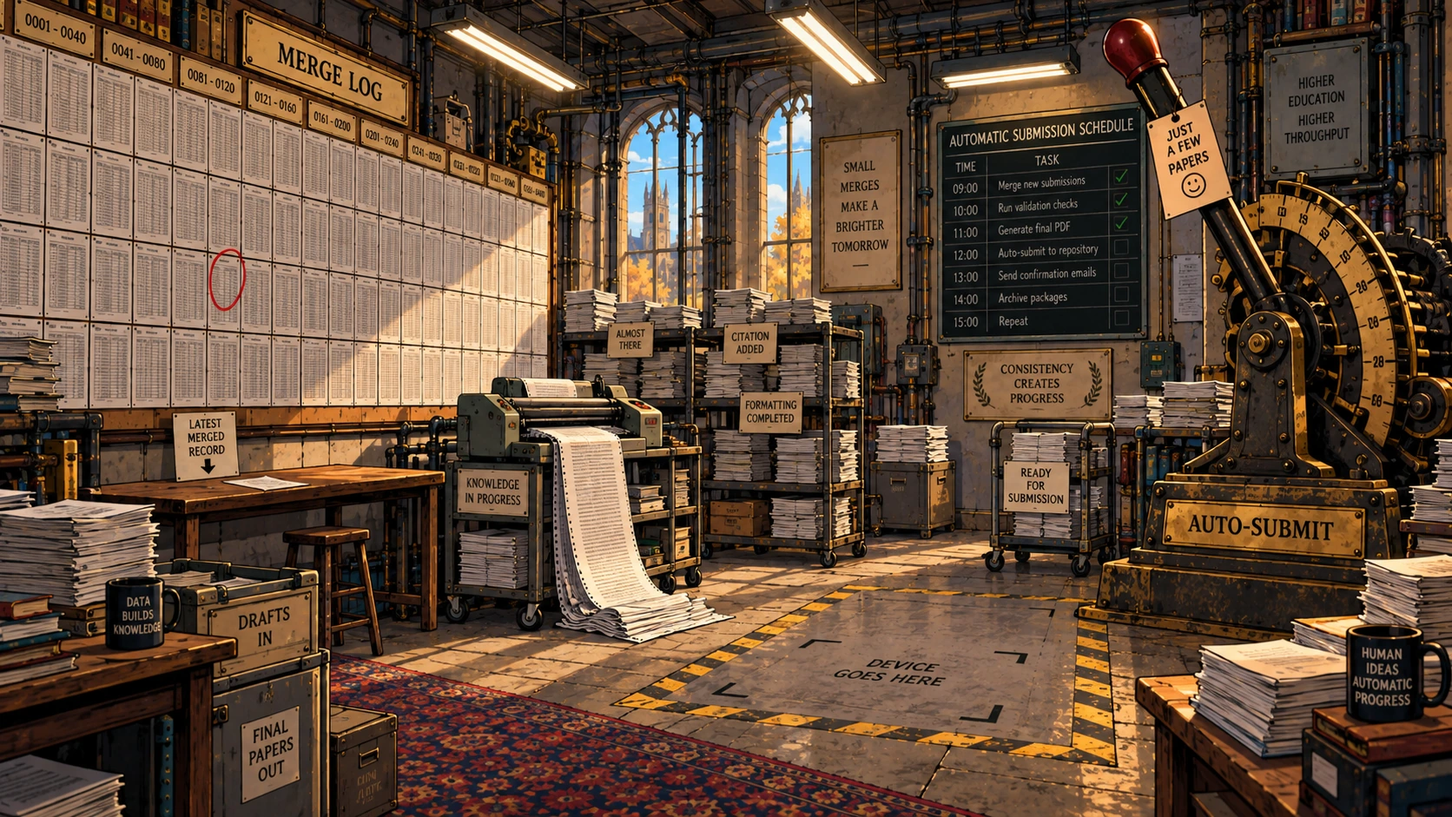
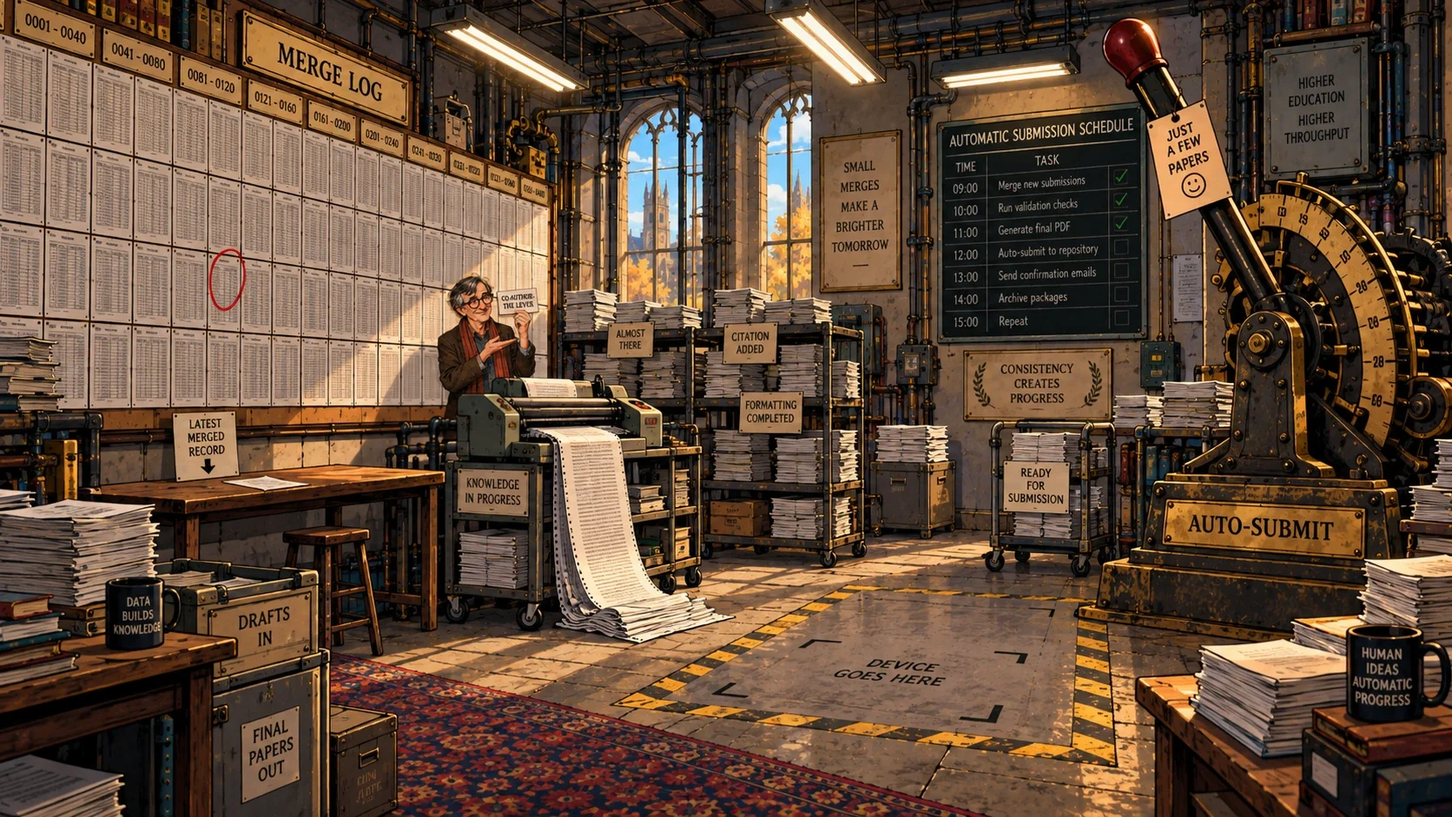
Sociologist cameos painted into the room backgrounds (Coleman, Goffman, Merton, Becker, Glaser & Strauss, Bourdieu, Durkheim, Weber's cage, Latour, Granovetter), spread over the five acts
Claude-Session: https://claude.ai/code/session_01NVbNvGwATBDeX3jSoy7jXs

Changed region(s): [[0.2488, 0.339, 0.3732, 0.5547]]

diff --git a/web/the-secret-of-the-codebook.html b/web/the-secret-of-the-codebook.html
@@ -1889,6 +1889,11 @@
   // Rooms publish their own geometry so tests can check placements against what the room
   // declares, rather than against numbers copied into the test.
   window.CODEBOOK_ROOM_OPTS = {};
+  // SOCIOLOGIST CAMEOS (author, 2026-09-26: "I like all cameos. Spread them out over the acts").
+  // One small figure per room, keyed by the room's prefix: a painted cut-out, a hotspot that
+  // answers Look and Talk, and nothing a puzzle depends on. Filled in by the CAMEOS block below.
+  window.CODEBOOK_CAMEOS = window.CODEBOOK_CAMEOS || {};
+  function cameoOf(p){ return (window.CODEBOOK_CAMEOS || {})[p]; }
   window.CODEBOOK_ADV_HTML = function(o){
     if (o && o.p) window.CODEBOOK_ROOM_OPTS[o.p] = o;
     var p = o.p;
@@ -1951,6 +1956,11 @@
       // parked beside it. Pointer-transparent, so the hotspots underneath still work.
       (o.fg ? '<img class="scene-fg" src="' + o.fg + '" alt="" aria-hidden="true">' : '') +
       (o.overlay || '') + spots +
+      (cameoOf(p) ? (function(c){
+        // painted into the room's background (9a); only the hotspot is added here
+        return (c.src ? '<img id="' + p + '_cameo" class="cb-cameo" src="' + c.src + '" alt="" style="position:absolute;pointer-events:none;left:' + c.l + '%;top:' + c.t + '%;width:' + c.w + '%;' + (c.css || '') + '">' : '') +
+          '<button class="hotspot" data-id="cameo" data-verbs="lookat talkto" data-primary="lookat" data-label="' + c.label + '" style="left:' + (c.hl != null ? c.hl : c.l) + '%;top:' + (c.ht != null ? c.ht : c.t) + '%;width:' + (c.hw || c.w) + '%;height:' + c.hh + '%;z-index:4;"></button>';
+      })(cameoOf(p)) : '') +
       '<div class="hint" id="' + p + '_hint"></div></div>' +
       '<div class="panel"><div class="speaker" id="' + p + '_speaker"></div><div class="line" id="' + p + '_line"></div><div class="choices" id="' + p + '_choices"></div></div>' +
       '</div><div class="side-panel">' +
@@ -2117,6 +2127,7 @@
       verbGrid.appendChild(b);
     });
 
+    if (cameoOf(p)) nouns.cameo = cameoOf(p).noun;
     wrap.querySelectorAll('.hotspot').forEach(function(hs){
       hs.addEventListener('mouseenter', function(){ hovered = nouns[hs.dataset.id]; updateSentence(); hintEl.textContent = hs.dataset.label; hintEl.classList.add('show'); });
       hs.addEventListener('mouseleave', function(){ hovered = null; updateSentence(); hintEl.classList.remove('show'); });
@@ -2124,6 +2135,13 @@
         // Tobi belongs to the scaffolding, not to any room, so he is answered here first
         // unless the room has chosen to handle him itself.
         if (hs.dataset.id === 'tobi' && api.tobi(verb)){ api.h27(); return; }
+        if (hs.dataset.id === 'cameo' && cameoOf(p)){
+          var c = cameoOf(p);
+          if (verb === 'talkto'){ c._n = (c._n || 0); api.say(c.who, c.talk[c._n++ % c.talk.length]); }
+          else if (verb === 'lookat' || !verb) api.say('You', c.look);
+          else api.fallback();
+          return;
+        }
         var handled = o.onClick(hs.dataset.id, verb, verb === 'use' ? item : null, api);
         if (handled === false) api.fallback();
         api.h27();
@@ -2597,7 +2615,7 @@
   }
   // The actions each thing really needs, set room by room (ROADMAP 8zx; author: "only show the icons that
   // are really needed"). This table wins over the guess read off the room's code; Tobi is always Talk.
-  var ROOM_VERBS = {"whirlpool":{"prof":"talkto","penjar":"pickup","hourglass":"pickup","usb":"pickup","stamp":"pickup","glassdesk":"pickup","bingocard":"pickup","mug":"lookat","likertdie":"lookat","autograph":"lookat","shelfL":"lookat","shelfR":"lookat","frameL":"lookat","frameR":"lookat","windowL":"lookat","windowR":"lookat","skeleton":"lookat","cork":"lookat","counter":"lookat"},"lecture":{"note":"lookat","phone":"lookat","doodle":"lookat","board":"use","ink":"pickup","prof":"talkto"},"corridor":{"note":"lookat","glass":"lookat","skeleton":"lookat","wanted":"lookat","corkboard":"lookat","chalkboard":"lookat","duck":"pickup","gatedoor":"use","bell":"use"},"pond":{"philosopher":"talkto","coleman":"lookat talkto","water":"lookat","plaque":"lookat","swanleft":"lookat","swanright":"lookat"},"library":{"kira":"talkto","conveyor":"lookat use","trolley":"lookat use","catalogue":"use","framed":"lookat","stacks":"lookat pickup","register":"pickup","desk":"pickup use","sign":"lookat"},"hall":{"profg":"talkto","dj":"talkto","djtable":"lookat","ladder":"pickup","dispenser":"use","meter":"use","portraits":"lookat talkto","weber":"lookat talkto","sign":"lookat","clipping":"lookat"},"workshop":{"feldstrom":"talkto","machine":"use","tape":"use","forbids":"lookat","desk":"lookat","extcard":"lookat","thesis":"lookat","diagrams":"lookat"},"seminar":{"board":"use","fellow":"talkto","chairs":"lookat","sign":"lookat"},"surveylab":{"nurse":"talkto","gurney1":"lookat","gurney2":"lookat","gurney3":"lookat","clipboard":"lookat","cabinet":"pickup","die":"pickup","board":"lookat","phone":"lookat","sign":"lookat","window":"lookat","poster":"lookat"},"ethics":{"keeper":"talkto","chair":"talkto","rep":"talkto","tribunal":"talkto","device":"lookat","table":"pickup","calendar":"pickup","pewright":"pickup","pewleft":"lookat","plaque":"lookat","glass":"lookat"},"mensa":{"herald":"talkto","drum":"use","officer":"use","frame":"use","counters":"talkto","tables":"lookat"},"fieldwork":{"director":"talkto","host":"use","phone":"pickup","podiums":"lookat","board":"lookat","doorbusy":"lookat","doorforgot":"lookat","doorspam":"lookat","doornot":"lookat"},"statsbasement":{"switches":"use","seal":"use","skeptic":"talkto","queue":"talkto","banner":"lookat","board":"lookat","monkeydoor":"use"},"delegation":{"kira":"talkto","record":"use","queue":"talkto","lever":"use","log":"lookat","prof":"talkto"},"bureau":{"clerk":"talkto","counter":"use","conveyor":"lookat","plaques":"lookat","gauge":"lookat"},"psychlab":{"achterberg":"talkto","typist":"talkto","desk":"lookat","typewriters":"lookat","hamlet":"lookat","pinboard":"lookat","cages":"lookat","labdoor":"lookat"},"postersession":{"poster":"use","best":"lookat","posters":"lookat","bins":"lookat","banner":"lookat"},"keynote":{"screen":"lookat","vossberg":"talkto","portraits":"lookat","chat":"lookat"},"writingroom":{"feldstrom":"talkto","registrar":"talkto","kira":"talkto","table":"use","abstract":"use","impact":"lookat","phone":"lookat"}};
+  var ROOM_VERBS = {"whirlpool":{"prof":"talkto","penjar":"pickup","hourglass":"pickup","usb":"pickup","stamp":"pickup","glassdesk":"pickup","bingocard":"pickup","mug":"lookat","likertdie":"lookat","autograph":"lookat","shelfL":"lookat","shelfR":"lookat","frameL":"lookat","frameR":"lookat","windowL":"lookat","windowR":"lookat","skeleton":"lookat","cork":"lookat","counter":"lookat"},"lecture":{"goffman":"lookat talkto","note":"lookat","phone":"lookat","doodle":"lookat","board":"use","ink":"pickup","prof":"talkto"},"corridor":{"note":"lookat","glass":"lookat","skeleton":"lookat","wanted":"lookat","corkboard":"lookat","chalkboard":"lookat","duck":"pickup","gatedoor":"use","bell":"use"},"pond":{"philosopher":"talkto","coleman":"lookat talkto","water":"lookat","plaque":"lookat","swanleft":"lookat","swanright":"lookat"},"library":{"kira":"talkto","conveyor":"lookat use","trolley":"lookat use","catalogue":"use","framed":"lookat","stacks":"lookat pickup","register":"pickup","desk":"pickup use","sign":"lookat"},"hall":{"profg":"talkto","dj":"talkto","djtable":"lookat","ladder":"pickup","dispenser":"use","meter":"use","portraits":"lookat talkto","weber":"lookat talkto","sign":"lookat","clipping":"lookat"},"workshop":{"feldstrom":"talkto","machine":"use","tape":"use","forbids":"lookat","desk":"lookat","extcard":"lookat","thesis":"lookat","diagrams":"lookat"},"seminar":{"board":"use","fellow":"talkto","chairs":"lookat","sign":"lookat"},"surveylab":{"nurse":"talkto","gurney1":"lookat","gurney2":"lookat","gurney3":"lookat","clipboard":"lookat","cabinet":"pickup","die":"pickup","board":"lookat","phone":"lookat","sign":"lookat","window":"lookat","poster":"lookat"},"ethics":{"keeper":"talkto","chair":"talkto","rep":"talkto","tribunal":"talkto","device":"lookat","table":"pickup","calendar":"pickup","pewright":"pickup","pewleft":"lookat","plaque":"lookat","glass":"lookat"},"mensa":{"herald":"talkto","drum":"use","officer":"use","frame":"use","counters":"talkto","tables":"lookat"},"fieldwork":{"director":"talkto","host":"use","phone":"pickup","podiums":"lookat","board":"lookat","doorbusy":"lookat","doorforgot":"lookat","doorspam":"lookat","doornot":"lookat"},"statsbasement":{"switches":"use","seal":"use","skeptic":"talkto","queue":"talkto","banner":"lookat","board":"lookat","monkeydoor":"use"},"delegation":{"kira":"talkto","record":"use","queue":"talkto","lever":"use","log":"lookat","prof":"talkto"},"bureau":{"clerk":"talkto","counter":"use","conveyor":"lookat","plaques":"lookat","gauge":"lookat"},"psychlab":{"achterberg":"talkto","typist":"talkto","desk":"lookat","typewriters":"lookat","hamlet":"lookat","pinboard":"lookat","cages":"lookat","labdoor":"lookat"},"postersession":{"poster":"use","best":"lookat","posters":"lookat","bins":"lookat","banner":"lookat"},"keynote":{"screen":"lookat","vossberg":"talkto","portraits":"lookat","chat":"lookat"},"writingroom":{"feldstrom":"talkto","registrar":"talkto","kira":"talkto","table":"use","abstract":"use","impact":"lookat","phone":"lookat"}};
   function verbsOf(t){
     var id = t.dataset.id || t.dataset.extra || t.dataset.zone || '';
     if (id === 'tobi') return ['talkto'];
@@ -5101,6 +5119,7 @@ CODEBOOK_REGISTER({
          He is lit and visible like anyone else. The course is timetabled under HER name;
          he is the cover, reading it out off a printout he did not write, which is the Act I
          plant for the post-credits reveal. -->
+    <!-- Erving Goffman, backstage at the side door: painted into lecture-bg and lecture-bg-bingo (9a) -->
     <div id="lt_lectTravel" style="position:absolute;left:0;top:0;width:100%;height:100%;pointer-events:none;">
       <img id="lt_lectLecturing" data-voice="lecturer" src="vossberg2-explain.webp" alt="" style="position:absolute;left:63%;bottom:24%;height:53%;width:auto;transform:translateX(-50%);transition:opacity .5s ease;">
       <img id="lt_lectWalking" data-voice="lecturer" src="vossberg2-walk.webp" alt="" style="position:absolute;left:63%;bottom:24%;height:53%;width:auto;transform:translateX(-50%);opacity:0;transition:opacity .5s ease;">
@@ -5770,6 +5789,12 @@ CODEBOOK_REGISTER({
     { id:'phone', kind:'lookat', noun:'your phone', hotspot:{l:74.16,t:89.37,w:11.96,h:10.63},
       lookat:'A phone, screen dimmed, held just below the sightline of a man who has spent thirty years perfecting the sightline of a lecture hall.' },
     { id:'doodle', kind:'doodle', noun:'your notebook', hotspot:{l:20.33,t:77.68,w:51.44,h:22.32} },
+    { id:'goffman', kind:'cameo', noun:'the man by the side door', hotspot:{l:38.5,t:42,w:4.5,h:16},
+      who:'Erving Goffman',
+      lookat:'Half-hidden behind a curtain at the side door, a small man in a dark suit is checking his tie in a hand mirror. Erving Goffman, backstage, before going on.',
+      talk:['&ldquo;Not now. This is backstage. Out there I am a sociologist; in here I am a man with a crooked tie.&rdquo;',
+            '&ldquo;He is not giving a lecture, you know.&rdquo; <i>(a nod towards Vossberg)</i> &ldquo;He is giving a performance of a lecture. Very convincing front.&rdquo;',
+            '&ldquo;Everybody has a back region. The trick is to notice when you have walked into someone else&rsquo;s.&rdquo;'] },
     { id:'board', kind:'board', noun:'the blackboard', hotspot:{l:47.55,t:11.69,w:37.98,h:35.07} },
     { id:'ink', kind:'pickup', itemId:'blackink', flag:'lectureInkTaken', noun:'a bottle of ink',
       hotspot:{l:59.8,t:40,w:4.4,h:7},
@@ -5797,6 +5822,12 @@ CODEBOOK_REGISTER({
   }
 
   function handleZoneClick(x){
+    if (x.kind === 'cameo'){
+      if (selectedVerb === 'talkto'){ x._n = x._n || 0; setLine(x.who, x.talk[x._n++ % x.talk.length]); }
+      else if (selectedVerb === 'lookat'){ setLine('You', x.lookat); }
+      else { setLine('You', FALLBACK[selectedVerb] || "That doesn't seem to work."); }
+      return;
+    }
     if (x.kind === 'lookat'){
       if (selectedVerb === 'lookat'){ setLine('You', x.lookat); }
       else { setLine('You', FALLBACK[selectedVerb] || "That doesn't seem to work."); }
@@ -6672,10 +6703,8 @@ CODEBOOK_REGISTER({
   <div class="scene-wrap" id="pd_sceneWrap">
     <img id="pd_bg" src="pond-bg.webp" alt="" style="width:100%;height:100%;object-fit:cover;display:block;">
     <button class="hotspot" data-id="swanright" data-label="A white swan" style="left:74%;top:45%;width:12%;height:17%;"></button>
-    <!-- James Coleman, rowing Coleman's boat: MACRO down to micro, across, back up (author, 2026-09-26) -->
-    <img id="pd_coleman" src="pond-coleman.webp" alt="" style="position:absolute;left:40.5%;top:36.5%;width:12%;pointer-events:none;animation:pdBoat 5.5s ease-in-out infinite;filter:drop-shadow(0 3px 4px rgba(0,0,0,.35));">
-    <style>@keyframes pdBoat{0%,100%{transform:translate(0,0) rotate(-.6deg)}50%{transform:translate(1.5%,1.2%) rotate(.8deg)}}</style>
-    <button class="hotspot" data-id="coleman" data-label="A man rowing a boat" style="left:40.5%;top:36.5%;width:12%;height:10%;z-index:3;"></button>
+    <!-- James Coleman rowing Coleman's boat, painted into both pond backgrounds (9a) -->
+    <button class="hotspot" data-id="coleman" data-label="A man rowing a boat" style="left:26%;top:34%;width:8%;height:8%;z-index:3;"></button>
     <button class="hotspot" data-id="swanleft" data-label="Another white swan" style="left:29%;top:44%;width:10%;height:12%;"></button>
     <button class="hotspot" data-id="plaque" data-label="A wooden plaque" style="left:5%;top:54%;width:20%;height:9%;"></button>
     <button class="hotspot" data-id="water" data-label="The open water, towards the bridge" style="left:42%;top:38%;width:30%;height:17%;"></button>
@@ -7299,6 +7328,68 @@ CODEBOOK_REGISTER({
       });
     }, { label: 'Outro' });
   };
+})();
+</script>
+<script>
+/* ============================== SOCIOLOGIST CAMEOS ============================== */
+// Author, 2026-09-26: "I like all cameos. Spread them out over the acts." Coleman rows on the
+// Pond and Goffman waits backstage in the Lecture Theatre (both Act I, in those rooms' own
+// code); the rest go through CODEBOOK_CAMEOS, which every adventure room reads by prefix.
+// l/t/w place the cut-out (percent of the scene), hh is the hotspot height.
+(function(){
+var C = window.CODEBOOK_CAMEOS = window.CODEBOOK_CAMEOS || {};
+// Act II
+C.lb = { l:13.5, t:48, w:6.5, hh:19, who:'Robert K. Merton', noun:'the man with the citations',
+  label:'A man with an armful of citations',
+  look:'A tall, white-haired man in a bow tie, arms overflowing with citation slips. More drift over to him from the trolley as you watch, several of them clearly somebody else&rsquo;s. Robert K. Merton, and the Matthew effect in person.',
+  talk:['&ldquo;For unto every one that hath shall be given.&rdquo; <i>(a slip lands on the pile)</i> &ldquo;Matthew, chapter twenty-five. I only named it.&rdquo;',
+        '&ldquo;Oh, that one isn&rsquo;t mine. Neither is that one.&rdquo; <i>(he keeps them both)</i> &ldquo;People cite the name they have already heard of.&rdquo;',
+        '&ldquo;Unintended consequences. You cite a famous paper to be safe, and the famous paper gets more famous. Nobody meant it.&rdquo;'] };
+C.sm = { l:83, t:27, w:10, hh:14, who:'Howard Becker', noun:'the jazz trio',
+  label:'A jazz trio outside the window',
+  look:'Through the window, on the lawn outside, a jazz trio is playing to nobody in particular. The trumpeter is Howard Becker. They have been invited in twice. They are not coming in.',
+  talk:['&ldquo;We&rsquo;re outsiders, man. That&rsquo;s not a thing we are. That&rsquo;s a thing they called us.&rdquo;',
+        '&ldquo;Deviance isn&rsquo;t in the act. It&rsquo;s in who gets to hang the label on it.&rdquo; <i>(a long, cool note)</i>',
+        '&ldquo;Come to the gig. It&rsquo;s the only room on campus without a seating chart.&rdquo;'] };
+// Act III
+C.fw = { l:79.5, t:39, w:13, hh:22, who:'Glaser &amp; Strauss', noun:'the two men digging',
+  label:'Two men digging a hole',
+  look:'In the corner behind the cameras, two men in hard hats are digging a hole. A sign on a stake: <b>GROUNDED THEORY &mdash; STILL LOOKING</b>. Barney Glaser and Anselm Strauss, on site.',
+  talk:['Glaser, leaning on the shovel: &ldquo;No hypotheses. We just dig, and the theory emerges from the ground.&rdquo; Strauss, at the clipboard: &ldquo;Any minute now.&rdquo;',
+        '&ldquo;Constant comparison.&rdquo; <i>(they compare the hole with another hole)</i> &ldquo;Saturation is when the new dirt looks like the old dirt.&rdquo;',
+        '&ldquo;You people come in with a Prediction Slip.&rdquo; <i>(a disapproving shovelful)</i> &ldquo;We never know what we are looking for. That&rsquo;s the method.&rdquo;'] };
+C.mn = { l:83.5, t:50, w:6, hh:14, who:'Pierre Bourdieu', noun:'the man judging lunches',
+  label:'A man inspecting other people&rsquo;s lunches',
+  look:'At the end of a long table, a grey-haired man in a dark suit is inspecting other people&rsquo;s trays over his glasses. Pierre Bourdieu, eating his distinction.',
+  talk:['&ldquo;Taste classifies. And it classifies the classifier.&rdquo; <i>(he looks at your tray)</i> &ldquo;Schnitzel. Of course.&rdquo;',
+        '&ldquo;The Mensa is not a canteen. It is a field. Look who sits where.&rdquo;',
+        '&ldquo;Your capital is showing. Cultural, mostly. A little economic. Very little social, sitting alone like that.&rdquo;'] };
+C.et = { l:21.5, t:43, w:8.5, hh:33, who:'&Eacute;mile Durkheim', noun:'the bearded man with the charts',
+  label:'A bearded man studying a chart',
+  look:'By the tribunal steps, a bearded man in a black frock coat is studying a hand-drawn chart of rates by region. &Eacute;mile Durkheim, with his data from 1897. Nobody consented to anything back then. The Tribunal is pretending not to see him.',
+  talk:['&ldquo;Individuals are unpredictable. Rates are not.&rdquo; <i>(he taps the chart)</i> &ldquo;That is where sociology lives.&rdquo;',
+        '&ldquo;I never interviewed one of them. Only the registers. Your Tribunal would have had a great deal to say.&rdquo;',
+        '&ldquo;A social fact, young person, is one that would still be there if everybody in this room left.&rdquo;'] };
+// Act IV
+C.bu = { l:70.5, t:3, w:6.5, hh:21, who:'The Iron Cage', noun:'the iron cage',
+  label:'An iron birdcage',
+  look:'Hanging from the ceiling, an iron birdcage with a brass tag: <b>MAX WEBER</b>. Inside, a very small bureaucrat stamps very small forms, efficiently, forever.',
+  talk:['The tiny bureaucrat does not look up. &ldquo;Please take a number.&rdquo; <i>(stamp)</i> &ldquo;Rational. Calculable. Impersonal.&rdquo;',
+        '&ldquo;It started as a light cloak on the shoulders.&rdquo; <i>(stamp)</i> &ldquo;Nobody remembers when it became a cage.&rdquo;',
+        '&ldquo;Specialists without spirit.&rdquo; <i>(stamp)</i> &ldquo;Sensualists without heart.&rdquo; <i>(stamp)</i> &ldquo;Next.&rdquo;'] };
+C.dl = { l:30, t:32, w:7.5, hh:17, who:'Bruno Latour', noun:'the man with the card',
+  label:'A man holding up a card',
+  look:'A lean man in a scarf is holding up a hand-written card: <b>CO-AUTHOR: THE LEVER</b>. Bruno Latour, at KIRA&rsquo;s terminal.',
+  talk:['&ldquo;Why should only the humans get authorship? The lever did the submitting. KIRA did the writing. You only watched.&rdquo;',
+        '&ldquo;Follow the actors. All of them.&rdquo; <i>(he pats the AUTO-SUBMIT plate)</i> &ldquo;This one has more agency than half the department.&rdquo;',
+        '&ldquo;We have never been modern.&rdquo; <i>(he looks at the queue)</i> &ldquo;We have only been busy.&rdquo;'] };
+// Act V
+C.ps = { l:50, t:45, w:6.5, hh:14, who:'Mark Granovetter', noun:'the man with the lanyards',
+  label:'A man pegging lanyards on a line',
+  look:'By a poster board, a man with a moustache is pegging conference lanyards onto a washing line. Mark Granovetter. Nobody on the line knows anybody else on it very well, which is apparently the point.',
+  talk:['&ldquo;Your close friends know what you know. It&rsquo;s the people you barely know who tell you about the job.&rdquo;',
+        '&ldquo;The strength of weak ties.&rdquo; <i>(he pegs up another lanyard)</i> &ldquo;Everyone here has met everyone else once, at the coffee.&rdquo;',
+        '&ldquo;Take one. Wear it. In ten years somebody on this line will hire you, and neither of you will remember why.&rdquo;'] };
 })();
 </script>
 <script>
@@ -11235,7 +11326,7 @@ var SPRITES = [
   // is where they are standing. He is cut off at the waist by the counter top (bg-y 511).
   { id:'cook',   src:'sprite-cook.webp',   l:96.3, t:46.6, w:3.6,  h:7.6 },
   { id:'diners', src:'sprite-diners.webp', l:3.6,  t:53.9, w:10.8, h:11.0 },
-  { id:'queue',  src:'sprite-queue.webp',  l:85.0, t:47.4, w:11.0, h:13.6 },
+  { id:'queue',  src:'sprite-queue.webp',  l:89.2, t:47.4, w:11.0, h:13.6 },
   // placed by the Officer once handed over (ROADMAP 8zl, M1): the receptacle under the chute,
   // the real randomiser beside the ceremonial drum
   { id:'placedMug',  src:'icon-mug.webp',          l:44.2, t:73.5, w:3.2, h:5.6 },
@@ -11434,7 +11525,7 @@ var HOTSPOTS = [
   { id:'podiums',   label:'Twelve numbered podiums',     noun:'the podiums',                l:23.9, t:45.7, w:50.5, h:17.5 },
   { id:'doorspam',  label:'A door: EMAIL WENT TO SPAM',  noun:'the EMAIL WENT TO SPAM door', l:76.9, t:26,   w:7.8,  h:26 },
   { id:'doornot',   label:'A door: I DON&rsquo;T DO SURVEYS', noun:'the I DON&rsquo;T DO SURVEYS door', l:89.7, t:24, w:9.7, h:33 },
-  { id:'director',  label:'The Fieldwork Director',      noun:'the Fieldwork Director',     l:68.5, t:41,   w:9.2,  h:44 },
+  { id:'director',  label:'The Fieldwork Director',      noun:'the Fieldwork Director',     l:66,   t:41,   w:9.2,  h:44 },
   { id:'host',      label:'The host&rsquo;s podium',     noun:'the host&rsquo;s podium',    l:77.8, t:58,   w:12.6, h:27 },
   { id:'phone',     label:'A telephone',                 noun:'the telephone',              l:79,   t:52.6, w:5.4,  h:5.3 }
 ];
@@ -11462,7 +11553,7 @@ var SPRITES = [
   // She stands ON the stage, and her feet finish just inside the front row so the audience
   // -- which is drawn last, nearest the camera -- hides them. She used to run down to 85%,
   // straight through the heads.
-  { id:'director', voice:'director', mouth:'mouth-director.webp', mouthClosed:true, src:'sprite-director.webp', l:68.61, t:36.0, w:12.9, h:38.5 },
+  { id:'director', voice:'director', mouth:'mouth-director.webp', mouthClosed:true, src:'sprite-director.webp', l:66.1, t:36.0, w:12.9, h:38.5 },
   // Last in the array, so it draws over everything: the audience is the nearest thing to
   // camera. Backs of heads only, in the front row of seats the painting left empty while
   // the Director played to them and sfx-applause-big went off over nobody.
@@ -12536,7 +12627,7 @@ window.CODEBOOK_VO = {
     'icon-hourglass.webp', 'icon-likertdie.webp', 'icon-mug.webp', 'icon-pen.webp', 'icon-question.webp', 'icon-citationslip.webp',
     'icon-raffledrum.webp', 'icon-stamp.webp', 'icon-usb.webp', 'lecture-bg.webp', 'office-bg-empty.webp', 'prof-office.webp', 'mouth-prof-office.webp',
     'patch-hourglass.webp', 'patch-likertdie.webp', 'patch-mug.webp', 'patch-penjar.webp', 'patch-stamp.webp', 'patch-usb.webp',
-    'pond-bg.webp', 'pond-bg-falsified.webp', 'pond-coleman.webp', 'sprite-citationcounter.webp', 'sprite-doorman.webp',
+    'pond-bg.webp', 'pond-bg-falsified.webp', 'sprite-citationcounter.webp', 'sprite-doorman.webp',
     'vossberg2-explain.webp', 'vossberg2-point.webp', 'lecture-bg-bingo.webp', 'lecture-bingo-front.webp', 'lecture-cheer-front.webp', 'lecture-bg-cheer.webp', 'bingo-logo.webp', 'bingo-tense.mp3', 'bingo-tight.mp3', 'bingo-hit.mp3', 'bingo-miss.mp3', 'vossberg2-walk.webp', 'sprite-bingocard.webp', 'sprite-glow.webp', 'sprite-steam.webp',
     'trailer-panel1-deadline.webp', 'trailer-panel2-protagonist.webp', 'trailer-panel2b-spiral.webp', 'trailer-panel3-rumor.webp', 'trailer-panel4-legend.webp', 'trailer-panel5-arrival.webp',
     'icon-folder.webp', 'trailer-cast-act1.webp'
@@ -12545,7 +12636,7 @@ window.CODEBOOK_VO = {
   // progress bar) and quietly fetch the next one in the background while it's played.
   var ACT_ASSETS = window.CODEBOOK_ACT_ASSETS = {
     act1: ACT1_IMAGES.concat([
-      'title-theme.mp3', 'voices-act1.mp3', 'office-bgm.mp3', 'lecture-bgm.mp3',
+      'title-theme.mp3', 'voices-act1.mp3',  'office-bgm.mp3', 'lecture-bgm.mp3',
       'rig-prof-head.webp', 'rig-prof-torso.webp', 'rig-prof-upperarm.webp', 'rig-prof-forearm.webp', 'rig-prof-thigh.webp', 'rig-prof-shin.webp', 'mouth-doorman.webp', 'mouth-vossberg-lecturing.webp', 'mouth-vossberg-pointing.webp',
       'rig-doorman-head.webp', 'rig-doorman-torso.webp', 'rig-doorman-upperarm.webp', 'rig-doorman-forearm.webp', 'rig-doorman-thigh.webp', 'rig-doorman-shin.webp'
     ]),

diff --git a/ROADMAP.md b/ROADMAP.md
@@ -1051,6 +1051,22 @@ point — without dating the game.
 
 ---
 
+## 9a. Sociologist cameos, spread over the acts — 2026-09-26 (author: "I like all cameos. Spread them out over the acts")
+
+Small, optional, Look and Talk only (three lines each, cycling); no puzzle depends on them.
+Act I: James Coleman rowing Coleman's boat on the Pond; Erving Goffman backstage at the Lecture
+Theatre's side door. Act II: Robert K. Merton in the Library aisle hoarding citations (Matthew
+effect); Howard Becker's jazz trio outside the Seminar Room window. Act III: Glaser & Strauss
+digging for grounded theory at the Fieldwork Arena; Bourdieu judging lunches in the Mensa;
+Durkheim with his 1897 rates in the Ethics Tribunal. Act IV: Weber's iron cage (a tiny bureaucrat)
+in the Bureau; Latour's CO-AUTHOR: THE LEVER card in the Delegation Engine. Act V: Granovetter's
+washing line of lanyards at the Poster Session. All ten are PAINTED INTO the room backgrounds (author: "just redo the background and integrate
+them there"): ChatGPT edits of each background, re-registered onto the original with OpenCV and
+pasted back only inside the cameo's box (`scratchpad/patch.py`), so nothing else in a room moves.
+Original cut-outs kept in `art/unused/`. `CODEBOOK_CAMEOS[prefix]` now only adds the hotspot;
+Coleman and Goffman hotspots live in their rooms' own code. Goffman is in lecture-bg and
+lecture-bg-bingo, not the cheering frame (the standing crowd hides the door).
+
 ## 8zz. A character in another room gets another pose — 2026-09-26 (user: "when the same characters reappear in other rooms they should have slightly different poses")
 
 Each character keeps its original sprite in its home room and gets a new pose everywhere else
